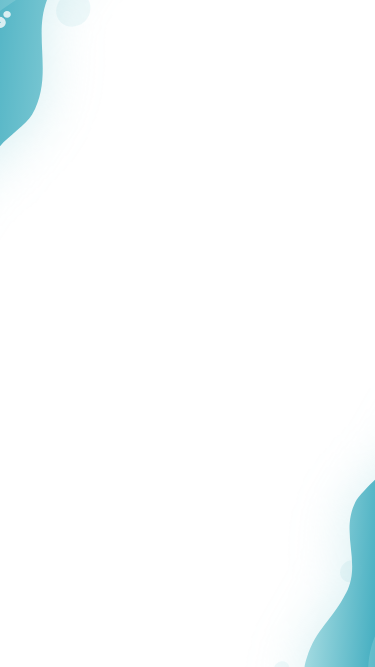
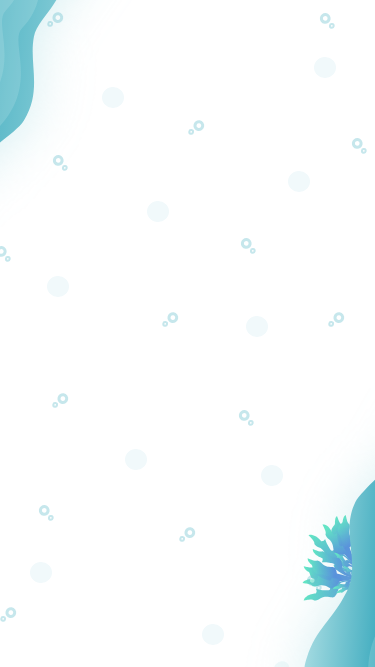
[UPDATE] Change Background Wallpaper

diff --git a/AppProjects/src/Containers/ManagePatientRecord.js b/AppProjects/src/Containers/ManagePatientRecord.js
@@ -1,20 +1,11 @@
 import React, { Component } from 'react';
-import { Link } from 'react-router-dom';
-import { Message, Header, Icon, Image, Form, Container, Modal, Button, Checkbox, Grid, Segment, Label, Divider } from 'semantic-ui-react'
+import {  Container, Grid, Segment,  } from 'semantic-ui-react'
 
 import swal from 'sweetalert2';
-import WOW from 'wowjs';
 import styled from 'styled-components'
-import ScrollUpButton from "react-scroll-up-button";
 import moment from 'moment';
 
 //Component
-import InfoPatient from '../Components/Patients/ManagePatientProfile/InfoPatient';
-import HomeAddress from '../Components/Patients/ManagePatientProfile/HomeAddress'
-import EmergencyContact from '../Components/Patients/ManagePatientProfile/EmergencyContact'
-import PatientParent from '../Components/Patients/ManagePatientProfile/PatientParent'
-import Allergy from '../Components/Patients/ManagePatientProfile/Allergy'
-import ErrorMessage from '../Components/Patients/ManagePatientProfile/ErrorMessage'
 import Register from '../Components/Patients/ManagePatientProfile/Register'
 import EditProfile from '../Components/Patients/ManagePatientProfile/EditProfile'
 
@@ -23,30 +14,7 @@ import { setErrorMsg, setErrorMsgSplice } from '../Services/Utils';
 import { insertPatient, editProfile, confirmChangePassword, validateOTP } from "../Services/ManagePatientMethod";
 import { confirmPopup, successPopup, successTXPopup, errorPopup } from "../Components/SweetAlert"
 
-//static
-import BackgroundImage from './../Static/Img/BG.png'
-import { patientField, groupInfoPatientField } from "../Static/Data/Field"
-// import EditProfile from '../Components/Patients/ManagePatientProfile/FormEditProfile';
 
-//css
-const Wrapper = styled.div`
-  background: url(${BackgroundImage}) no-repeat center fixed;
-  background-size: 100% 100%;
-`
-
-const ContanierTop = styled(Container)`
-    padding-top:4%;
-`
-
-const GridColumn = styled(Grid.Column)`
-    display: flex;
-    justify-content: center;
-    align-items: center;
-`
-const SegmentForm = styled(Segment)`
-    border-radius: 1rem !important;
-    padding: 2rem !important;
-`
 
 export default class ManagePatientRecord extends Component {
   state = {

diff --git a/AppProjects/src/Containers/Login.js b/AppProjects/src/Containers/Login.js
@@ -1,9 +1,9 @@
 import React, { Component } from "react";
-import { Button, Form, Grid, Header, Message, Segment } from "semantic-ui-react";
+import { Button, Form, Grid, Header, Message, Segment,Image } from "semantic-ui-react";
 import { Link } from "react-router-dom";
-import BackgroundImage from "../Static/Img/BG.png";
 import styled from "styled-components";
 import { login } from "../Services/AuthenticationMethod";
+import BGLogoLogin from '../Static/Img/LogoLogin.svg'
 import BGcomputer from '../Static/Img/Wallpaper/BGcomputer.png'
 import BGIPad1 from '../Static/Img/Wallpaper/BGIPad1.png'
 import BGIPad2 from '../Static/Img/Wallpaper/BGIPad2.png'
@@ -76,7 +76,7 @@ export default class PatientRecord extends Component {
                     body > div,
                     body > div > div,
                     body > div > div > div.login-form {
-                        height: 100vh;
+                        height: 100%;
                     }
                 `}</style>
                 <Grid
@@ -85,9 +85,10 @@ export default class PatientRecord extends Component {
                   verticalAlign="middle"
                 >
                     <Grid.Column style={{ maxWidth: 450 }}>
-                <Header style={{ fontSize: "4em", color:'#31A5BA' }} textAlign="center">
+            <Image verticalAlign='middle' src={BGLogoLogin} size='medium' />
+                {/* <Header style={{ fontSize: "4em", color:'#31A5BA' }} textAlign="center">
                         OPD BOOKS
-                      </Header>
+                      </Header> */}
                       <Form size="large">
                         <Segment style={{ borderRadius: "1.5rem", padding: "5%" }}>
                           <p style={{ color: "red" }}>{this.state.checklogin}</p>

diff --git a/AppProjects/src/index.js b/AppProjects/src/index.js
@@ -2,7 +2,6 @@ import React from 'react';
 import ReactDOM from 'react-dom';
 
 import Home from "./Containers/Home";
-import RegisterAPI from "./Containers/RegisterAPI";
 import Login from "./Containers/Login";
 import OTPfactor from "./Components/DemoExamples/OTPfactor";
 import ManagePatientRecord from "./Containers/ManagePatientRecord";
@@ -33,7 +32,6 @@ ReactDOM.render(
       <Route component={scrollToTop} />
       <Route exact path="/" component={Home} />
       {/* patient */}
-      <Route path="/RegisterAPI" component={RegisterAPI} />
       <Route path="/FormEditProfile" component={FormEditProfile} />
       <Route path="/signin" component={Login} />
       <Route path="/signup" component={ManagePatientRecord} />

diff --git a/AppProjects/src/Components/Patients/Profile/HeaderPatient.js b/AppProjects/src/Components/Patients/Profile/HeaderPatient.js
@@ -40,7 +40,7 @@ export default class HeaderPatient extends React.Component {
                     <Grid>
                         <Grid.Column width={2}>
                         <Image src="https://react.semantic-ui.com/images/avatar/small/matthew.png"  size="small" spaced="left" circular />
-                        </Grid.Column>
+                        </Grid.Column> 
                         <Grid.Column width={4}>
                             <Header as="h2">
                                 {this.state.patient.nametitle} {this.state.patient[patientField.firstname.variable]} {this.state.patient[patientField.lastname.variable]}
